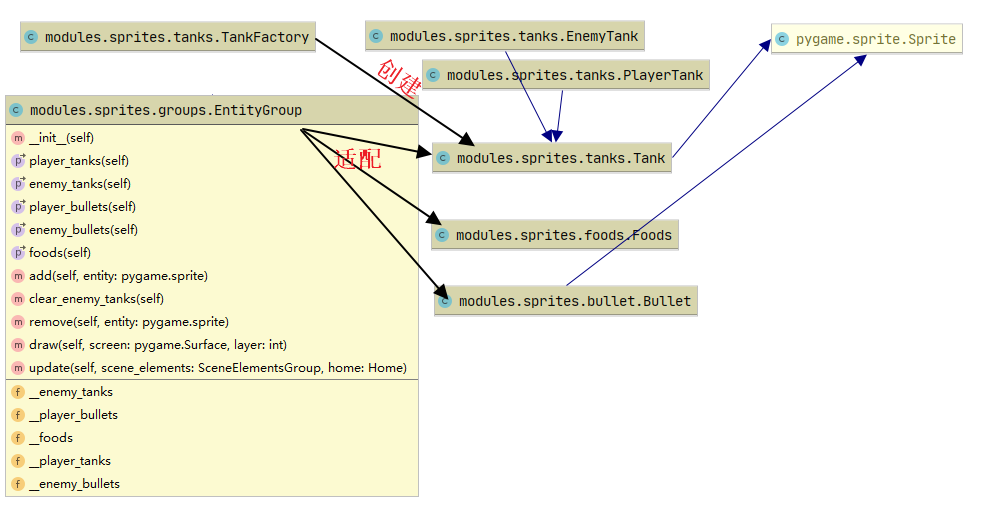
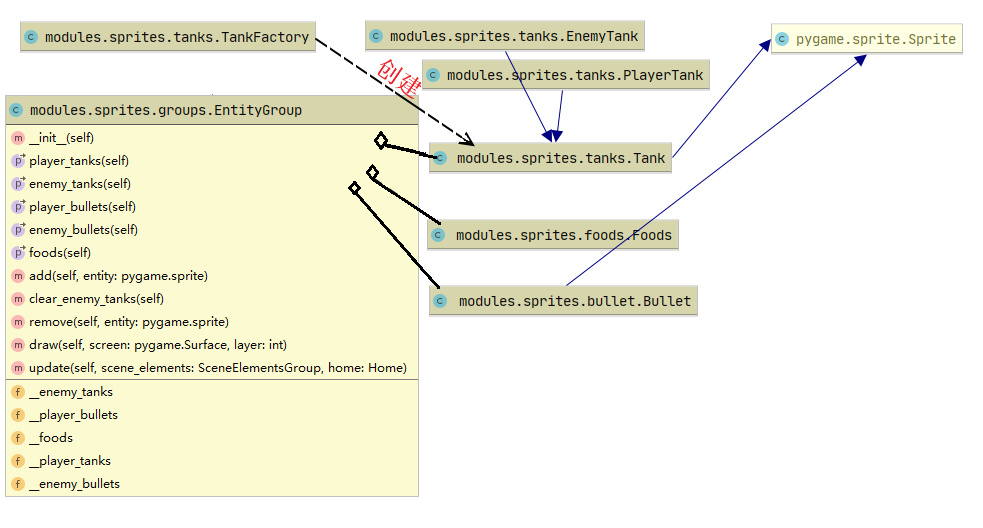
New UMLs and readme updated

diff --git a/readme.md b/readme.md
@@ -119,11 +119,11 @@ def _main_loop(self):
 
 坦克大战的关卡中将游戏中的所有“东西”分为了两个大类，分别是实体（子弹、坦克、道具）和场景元素（家、砖块、铁块、河流、草丛），而道具是拥有场景元素特性的实体，它虽然继承`SceneElement`，但属于实体，合成于`EntityGroup`
 
-`SceneElementGroup`使用了合成模式，合成了所有场景元素的聚集，提供统一的`add()`/`draw()`方法控制添加进哪个具体`pygame.sprite.Group`和绘制每类场景元素的聚集，而场景元素的创建需经`SceneFactory`工厂进行创建
+`SceneElementGroup`使用了类似于合成模式的设计，合成了所有场景元素的聚集，提供统一的`add()`/`draw()`方法控制添加进哪个具体`pygame.sprite.Group`和绘制每类场景元素的聚集，而场景元素的创建需经`SceneFactory`工厂进行创建
 
 ![UML_SceneElements](./UML/SceneElements.png)
 
-`EntityGroup`使用了适配器模式，与`SceneElementGroup`的功能类似，但若是创建坦克，则要经过`TankFactory`进行创建。提供统一的`add()`/`draw()`/`remove()`/`update()`方法控制实体聚集的创建/绘制/删除/更新、
+`EntityGroup`使用了类似于适配器模式的设计，与`SceneElementGroup`的功能类似，但若是创建坦克，则要经过`TankFactory`进行创建。提供统一的`add()`/`draw()`/`remove()`/`update()`方法控制实体聚集的创建/绘制/删除/更新、
 
 ![UML_Entities](./UML/Entities.png)
 
@@ -277,7 +277,25 @@ def __dispatch_collisions(self):
 
 
 
+### Class diagram
 
+![TankGame_With_Views](UML/clazz1.png)
+
+![SceneElementsGroup](UML/clazz2.png)
+
+![EntityGroup](UML/clazz3.png)
+
+![GameLevel](UML/clazz4.png)
+
+## Postscript
+
+在学习过了面向对象设计分析课程之后也了解了不少设计模式，虽然说拥有解决复杂工程项目的能力，但是目前依然欠缺一些应用能力，不能很好地利用所学的知识来组织复杂工程项目，项目依然存在可改进之处。
+
+从第一次commit到最后一次commit，历时一个多月的时间（真正开发的时间有100h+），将一个Github完全看上去组织地较乱的游戏工程项目改造成了一个具有面向对象设计思想的游戏，还是第一次尝试重构这样的项目。
+
+重构的过程需要不断地进行抽象、重新设计、并进行测试，需要检测游戏功能逻辑和原有项目之间是否一致，重构时出现bug是非常常见的事情，利用好测试以及版本差异比较工具解决重构产生的逻辑不一致也很重要，测试理想情况下是利用自动化单元测试，但是能力有限只进行了手动测试。
+
+参考项目：https://github.com/CharlesPikachu/Games/tree/master/Game5
 
 ## Screenshots
 
